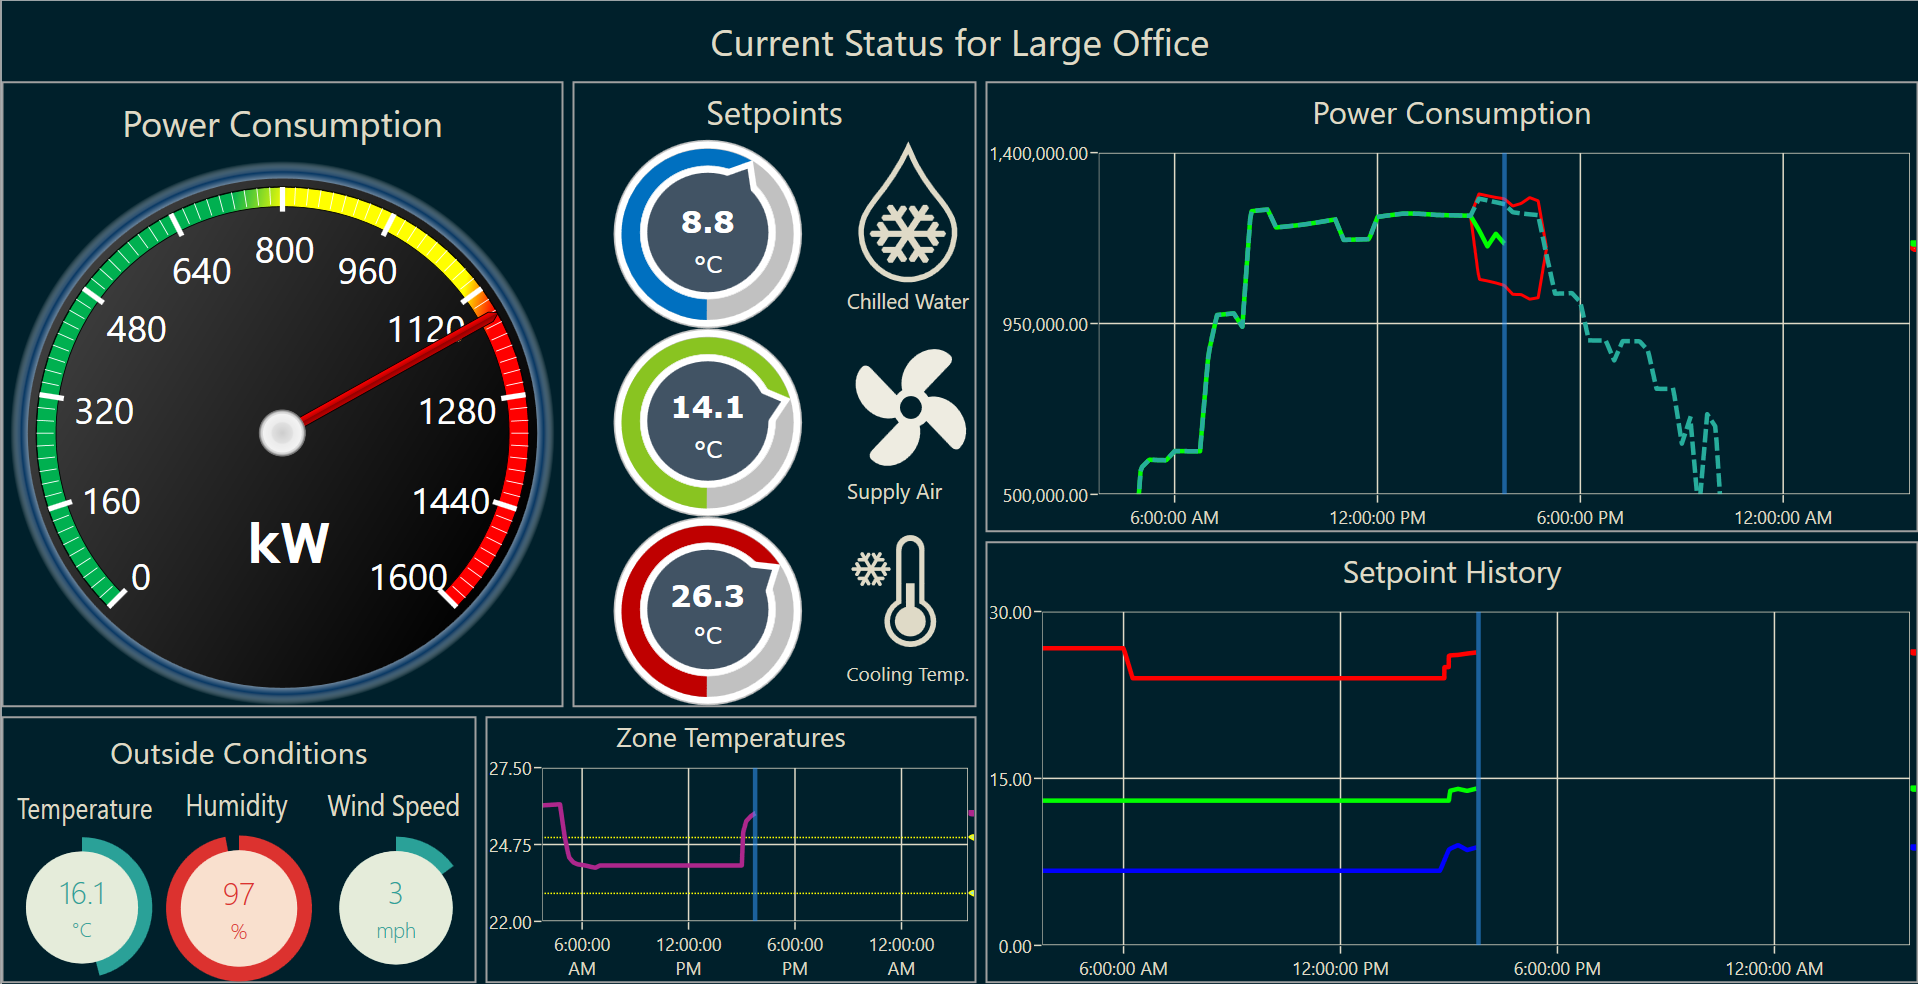
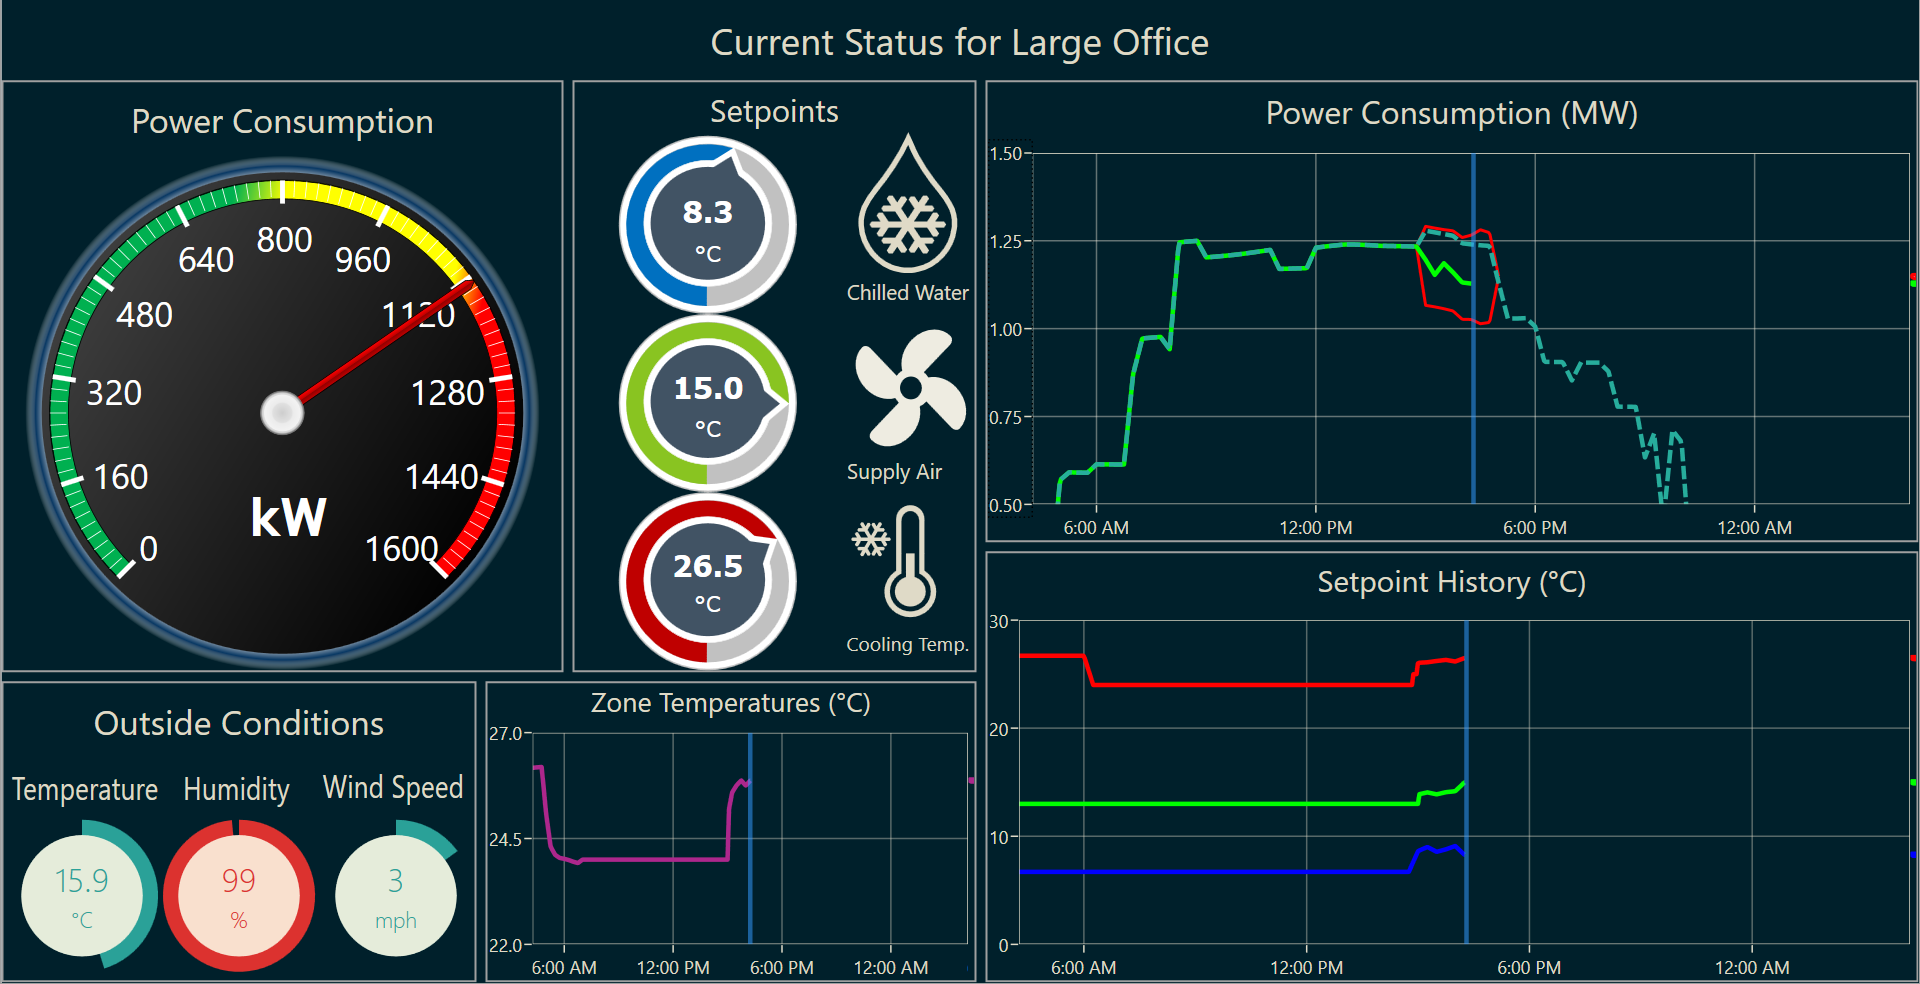
Updated Images

diff --git a/results/matlab_hh.py b/results/matlab_hh.py
@@ -15,23 +15,23 @@ def import_file(file, tag):
 
 
 	importer = hh_import.hh_import(name, path, tag_name)
-	# Power tracking begins on 2018 Feb 4
-	#start = datetime.datetime(2018, 2, 4, 0, 0, 0)
+	# Power tracking begins on 2018 Feb 1
+	start = datetime.datetime(2018, 2, 10, 0, 0, 0)
 	
 	#DR begins on 2018 Jan 4
-	start = datetime.datetime(2018, 1, 4, 0, 0, 0)
+	#start = datetime.datetime(2018, 1, 4, 0, 0, 0)
 
 	time_range = [start + datetime.timedelta(minutes = 15*i) for i in range(0, len(data))]
 
 	importer.export(time_range, data)
 
-# import_file("baseline", "BaselinePower")
-# import_file("actual", "ActualPower")
-# import_file("lconf", "LowConfidence")
-# import_file("uconf", "UpperConfidence")
-# import_file("sa", "SupplyAirSP")
-# import_file("cw", "ChilledWaterSP")
-# import_file("clg", "CoolingSP")
-# import_file("tempmid", "TempMid")
+import_file("baseline", "BaselinePower")
+import_file("actual", "ActualPower")
+import_file("lconf", "LowConfidence")
+import_file("uconf", "UpperConfidence")
+import_file("sa", "SupplyAirSP")
+import_file("cw", "ChilledWaterSP")
+import_file("clg", "CoolingSP")
+import_file("tempmid", "TempMid")
 import_file("uppertemp", "UpperTemp")
 import_file("lowertemp", "LowerTemp")

diff --git a/results/export_results.m b/results/export_results.m
@@ -1,20 +1,24 @@
 %Only include certain data until 4pm of the first day
 % DR Event
-time_range = 1:150;
-conf_range = 1:157;
+%time_range = 1:157;
+%conf_range = 1:157;
 % Power Tracking
-%time_range = 1:64;
-%conf_range = 1:69;
+time_range = 1:66;
+conf_range = 1:69;
 
 
 idx = isnan(prediction.('ymu'));
 lconf = prediction.('ymu') - 2 * sqrt(prediction.('ysigma2'));
 lconf(idx) = results.(vars.reference{1})(idx);
+lconf = lconf / 1000000;
 uconf = prediction.('ymu') + 2 * sqrt(prediction.('ysigma2'));
 uconf(idx) = results.(vars.reference{1})(idx);
+uconf = uconf/1000000;
 
 base = baseline.(vars.reference{1});
+base = base/1000000;
 actual = results.(vars.reference{1});
+actual = actual/1000000;
 
 
 sa = results.('SupplyAirSP');

diff --git a/results/plot_results.m b/results/plot_results.m
@@ -3,8 +3,8 @@ kernel = 'sqexp';
 ctrl_hzn = 4;
 sim_days = 2;
 
-load(fullfile(['dr_' kernel '_horizon' num2str(ctrl_hzn) '_simdays' num2str(sim_days)]));
-%load(fullfile(['power_track_' kernel '_horizon' num2str(ctrl_hzn) '_simdays' num2str(sim_days)]));
+%load(fullfile(['dr_' kernel '_horizon' num2str(ctrl_hzn) '_simdays' num2str(sim_days)]));
+load(fullfile(['power_track_' kernel '_horizon' num2str(ctrl_hzn) '_simdays' num2str(sim_days)]));
 % load(fullfile(['temp_track_' kernel '_horizon' num2str(ctrl_hzn) '_simdays' num2str(sim_days)]));
 
 %% plot data
